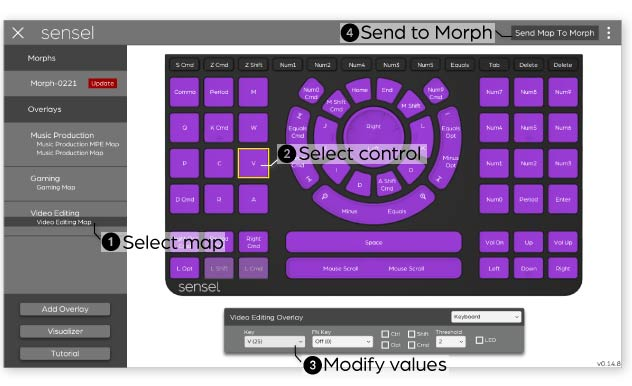
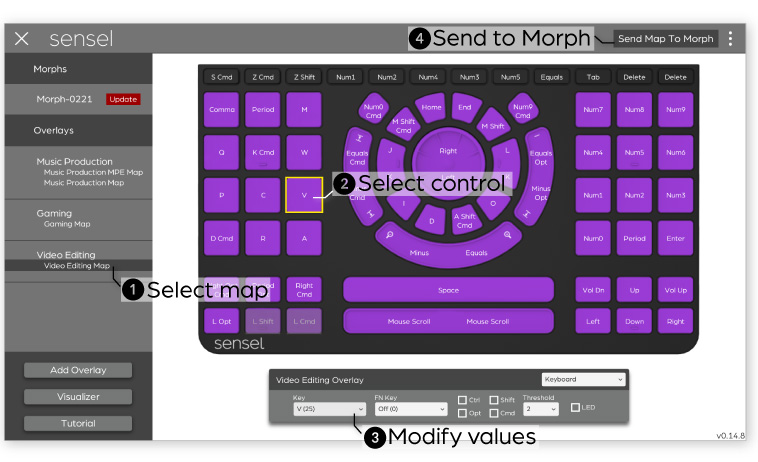
updated edit steps image

diff --git a/docs/app.md b/docs/app.md
@@ -82,7 +82,7 @@ The SenselApp has a built-in MIDI piano. If you have a Piano, Drum Pad, or Music
 
 Editing an Overlay's output and behavior is fairly straightforward, though the large array of options can make it seem complicated. Simply put, modifying a single control takes 4 steps.
 
-![SenselApp edit control on overlay](img/morphapp_editsteps.jpg)
+![SenselApp edit control on overlay](img/morphapp_editsteps.png)
 
 1. Select an overlay
 1. Click on a control
